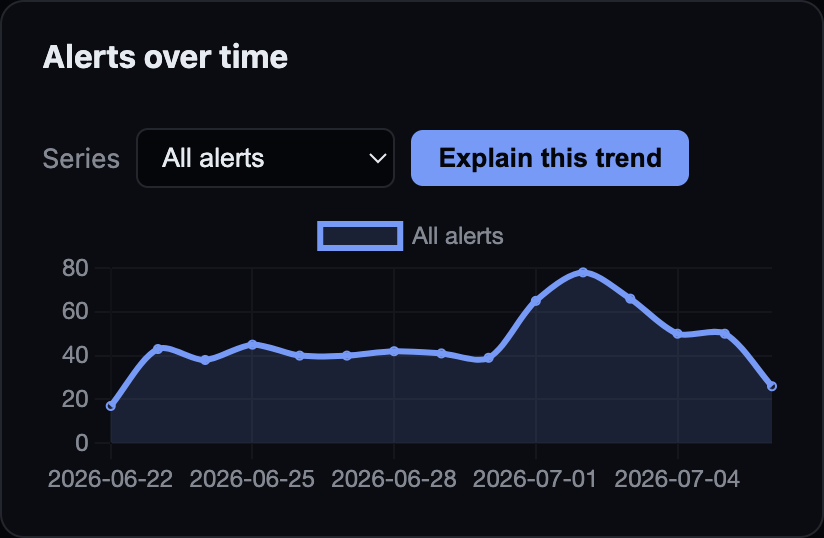
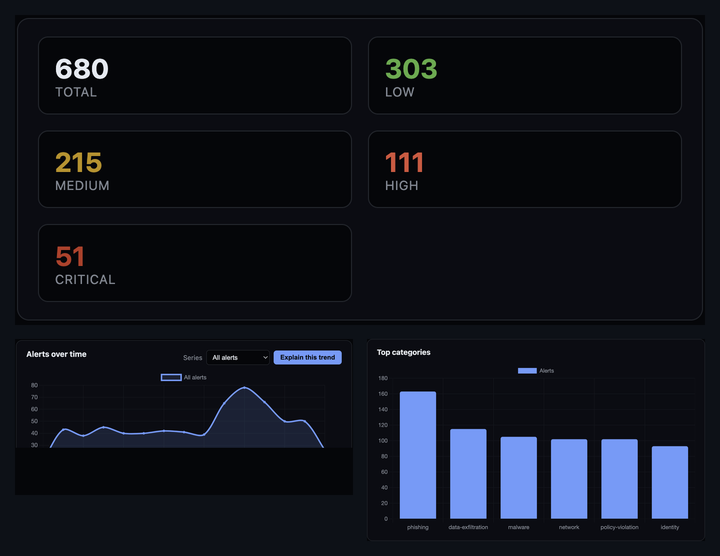
Improve project previews: full CLI terminal image, richer multi-chart dashboard composite, contain-fit for full visibility; drop 'Portfolio' from title

diff --git a/index.html b/index.html
@@ -3,7 +3,7 @@
 <head>
   <meta charset="UTF-8" />
   <meta name="viewport" content="width=device-width, initial-scale=1.0" />
-  <title>Alhousseiny Diallo — Security &amp; IT Portfolio</title>
+  <title>Alhousseiny Diallo — Security &amp; IT</title>
   <meta
     name="description"
     content="Alhousseiny 'Al' Diallo — early-career Security &amp; IT professional working across endpoint, identity, cloud, and network security, building AI-augmented tools that make findings clear for everyone."
@@ -11,7 +11,7 @@
   <meta name="author" content="Alhousseiny Diallo" />
 
   <!-- Open Graph / social preview -->
-  <meta property="og:title" content="Alhousseiny Diallo — Security &amp; IT Portfolio" />
+  <meta property="og:title" content="Alhousseiny Diallo — Security &amp; IT" />
   <meta
     property="og:description"
     content="Security &amp; IT professional. Alert triage, phishing analysis, and security operations dashboards."
@@ -95,7 +95,7 @@
       <div class="grid grid--projects">
         <!-- Project 1 -->
         <article class="card" tabindex="0">
-          <div class="card__media">
+          <div class="card__media card__media--fit">
             <img src="assets/alert-triage-cli.png" alt="Security Alert Triage CLI terminal output: a ranked triage queue with escalate, investigate, and monitor recommendations" loading="lazy" />
           </div>
           <div class="card__top">
@@ -154,8 +154,8 @@
 
         <!-- Project 3 -->
         <article class="card" tabindex="0">
-          <div class="card__media">
-            <img src="assets/security-ops-dashboard.png" alt="Security Ops dashboard: an alerts-over-time chart with a visible spike and an Explain this trend button" loading="lazy" />
+          <div class="card__media card__media--fit">
+            <img src="assets/security-ops-dashboard.png" alt="Security Ops dashboard: severity stat tiles with an alerts-over-time trend chart and a top-categories bar chart" loading="lazy" />
           </div>
           <div class="card__top">
             <span class="card__index">03</span>

diff --git a/style.css b/style.css
@@ -473,6 +473,9 @@ img {
   display: block;
   transition: transform var(--transition);
 }
+.card__media--fit img {
+  object-fit: contain;
+}
 .card:hover .card__media img,
 .card:focus-within .card__media img {
   transform: scale(1.03);